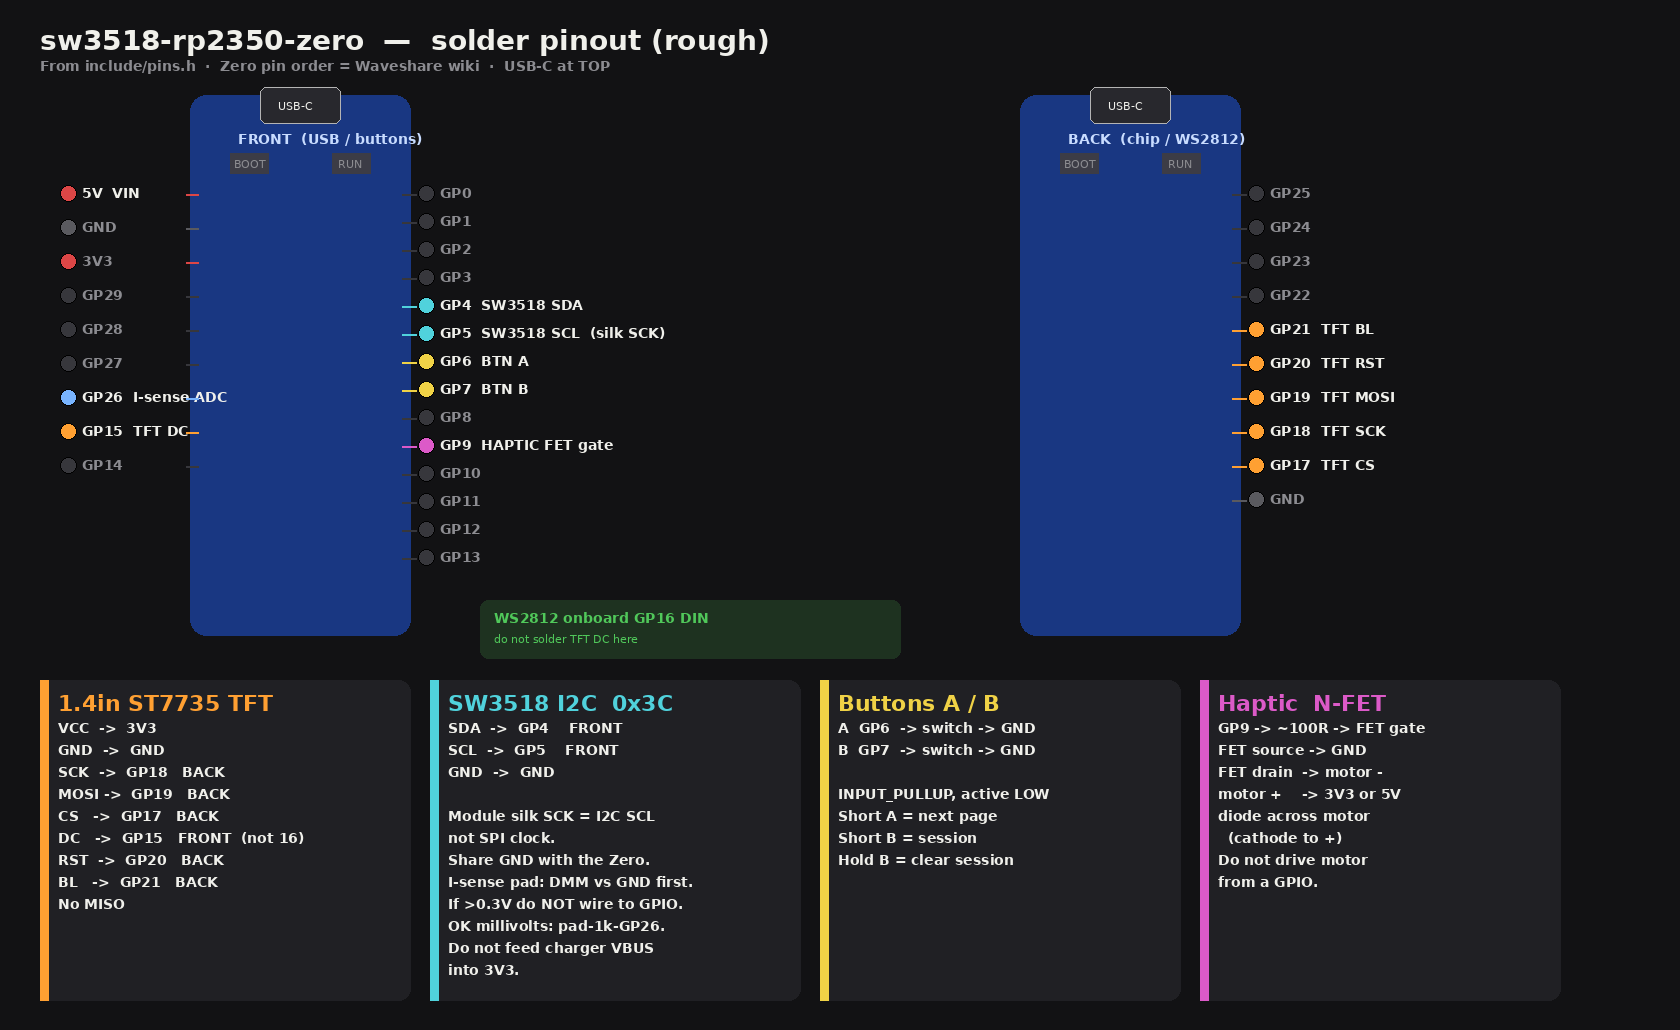
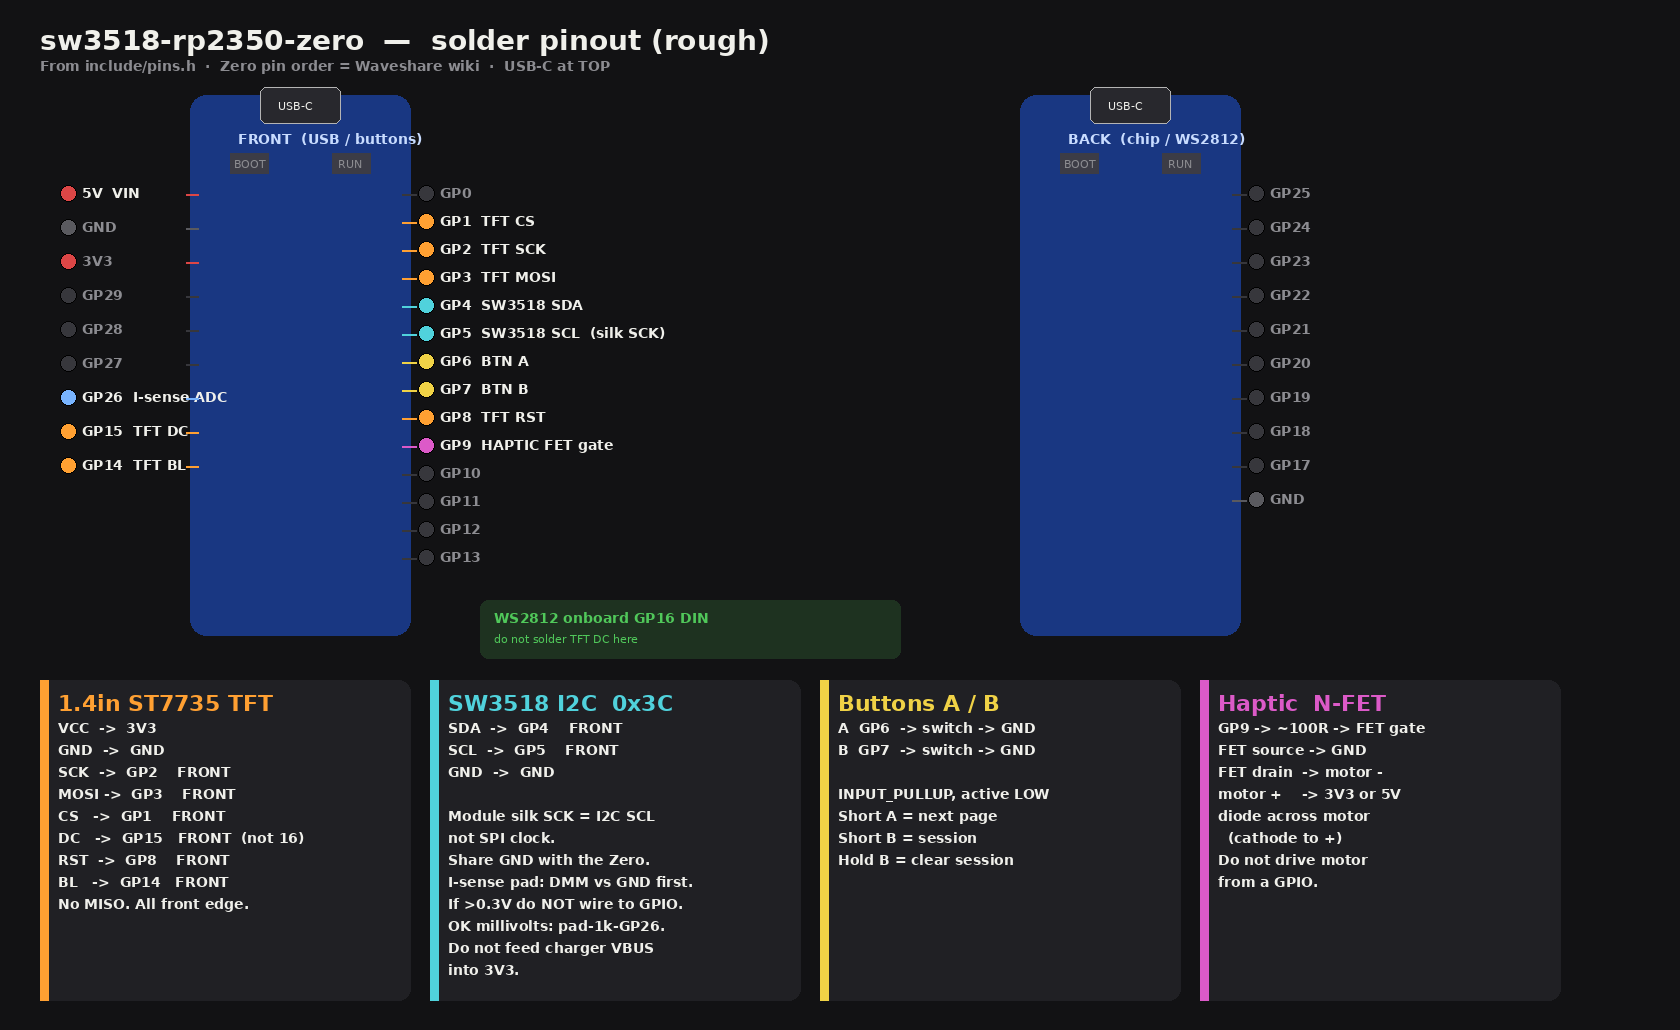
Move TFT SPI onto front-edge GPIOs.
SPI0 SCK/MOSI remap to GP2/GP3; CS/RST/BL on GP1/8/14. Back pads GP17-21 are free.

diff --git a/include/pins.h b/include/pins.h
@@ -3,15 +3,16 @@
 // Default pin map — Waveshare RP2350-Zero + 1.4" 128x128 SPI TFT + SW3518 + buttons + haptic.
 // Change here; rebuild. Documented again in README.
 
-// --- 1.4"/1.44" ST7735S SPI 128x128 (SPI0 defaults on Pico family: SCK=18, MOSI=19) ---
-static const int PIN_TFT_SCK  = 18;
-static const int PIN_TFT_MOSI = 19;
-static const int PIN_TFT_CS   = 17;
-// GP16 is the onboard WS2812 (Waveshare RP2350-Zero schematic DIN, Pico SDK
-// PICO_DEFAULT_WS2812_PIN). TFT DC lives on GP15 so it does not fight the LED.
-static const int PIN_TFT_DC   = 15;
-static const int PIN_TFT_RST  = 20;
-static const int PIN_TFT_BL   = 21;  // backlight; PWM for night dim
+// --- 1.4"/1.44" ST7735S SPI 128x128 ---
+// All TFT GPIOs are on the Zero *front* castellated edge (USB-C at top).
+// SPI0 is remapped off the back-pad defaults (GP18/19) onto GP2/GP3
+// (Waveshare pinout: GP2 = SPI0 SCK, GP3 = SPI0 TX).
+static const int PIN_TFT_SCK  = 2;
+static const int PIN_TFT_MOSI = 3;
+static const int PIN_TFT_CS   = 1;
+static const int PIN_TFT_DC   = 15;  // front left; GP16 is the onboard WS2812
+static const int PIN_TFT_RST  = 8;
+static const int PIN_TFT_BL   = 14;  // PWM night dim
 static const int PIN_WS2812   = 16;  // onboard WS2812B, GRB 800 kHz
 
 // 128x128 panels need the 144 tab (sets 128 height + col/row start).
@@ -30,8 +31,8 @@ static const uint8_t SW3518_I2C_ADDR = 0x3C;
 // --- Momentary buttons on case LID beside screen (active LOW, INPUT_PULLUP) ---
 static const int PIN_BTN_A = 6;  // short = next page; long = haptic test
 static const int PIN_BTN_B = 7;  // short = prev / jump Session; long = clear session
-// Optional 3rd button (Mode) — leave unused or wire to free GPIO:
-// static const int PIN_BTN_MODE = 8;
+// Optional 3rd button (Mode) — GP8 is TFT RST; use GP10+ if needed.
+// static const int PIN_BTN_MODE = 10;
 
 // --- Haptic motor via N-FET gate (active HIGH) ---
 static const int PIN_HAPTIC = 9;

diff --git a/docs/make_solder_pinout.py b/docs/make_solder_pinout.py
@@ -28,18 +28,18 @@ FRONT_L = [
     ("27", "", "free"),
     ("26", "I-sense ADC", "adc"),
     ("15", "TFT DC", "tft"),
-    ("14", "", "free"),
+    ("14", "TFT BL", "tft"),
 ]
 FRONT_R = [
     ("0", "", "free"),
-    ("1", "", "free"),
-    ("2", "", "free"),
-    ("3", "", "free"),
+    ("1", "TFT CS", "tft"),
+    ("2", "TFT SCK", "tft"),
+    ("3", "TFT MOSI", "tft"),
     ("4", "SW3518 SDA", "i2c"),
     ("5", "SW3518 SCL  (silk SCK)", "i2c"),
     ("6", "BTN A", "btn"),
     ("7", "BTN B", "btn"),
-    ("8", "", "free"),
+    ("8", "TFT RST", "tft"),
     ("9", "HAPTIC FET gate", "hap"),
     ("10", "", "free"),
     ("11", "", "free"),
@@ -51,11 +51,11 @@ BACK_R = [
     ("24", "", "free"),
     ("23", "", "free"),
     ("22", "", "free"),
-    ("21", "TFT BL", "tft"),
-    ("20", "TFT RST", "tft"),
-    ("19", "TFT MOSI", "tft"),
-    ("18", "TFT SCK", "tft"),
-    ("17", "TFT CS", "tft"),
+    ("21", "", "free"),
+    ("20", "", "free"),
+    ("19", "", "free"),
+    ("18", "", "free"),
+    ("17", "", "free"),
     ("GND", "", "gnd"),
 ]
 
@@ -142,13 +142,13 @@ def main():
         [
             "VCC  ->  3V3",
             "GND  ->  GND",
-            "SCK  ->  GP18   BACK",
-            "MOSI ->  GP19   BACK",
-            "CS   ->  GP17   BACK",
+            "SCK  ->  GP2    FRONT",
+            "MOSI ->  GP3    FRONT",
+            "CS   ->  GP1    FRONT",
             "DC   ->  GP15   FRONT  (not 16)",
-            "RST  ->  GP20   BACK",
-            "BL   ->  GP21   BACK",
-            "No MISO",
+            "RST  ->  GP8    FRONT",
+            "BL   ->  GP14   FRONT",
+            "No MISO. All front edge.",
         ],
         C["tft"],
         fonts,

diff --git a/src/main.cpp b/src/main.cpp
@@ -466,7 +466,7 @@ static void initDisplay() {
   delay(200);
   tft.fillScreen(COL_BLACK);
 #else
-  // earlephilhower SPI0: default SCK=18 MOSI=19 matches our map
+  // SPI0 remapped to front-edge GP2/GP3 (not the back-pad defaults 18/19)
   SPI.setSCK(PIN_TFT_SCK);
   SPI.setTX(PIN_TFT_MOSI);
   SPI.begin(true);

diff --git a/README.md b/README.md
@@ -39,12 +39,12 @@ Edit `include/pins.h` (also summarized here).
 
 | Function | GPIO | Notes |
 |----------|------|--------|
-| TFT SCK | **18** | SPI0 |
-| TFT MOSI | **19** | SPI0 |
-| TFT CS | **17** | |
-| TFT DC | **15** | Moved off GP16 so the onboard WS2812 can own that pin |
-| TFT RST | **20** | |
-| TFT BL | **21** | PWM night dim |
+| TFT SCK | **2** | SPI0 SCK, **front** edge |
+| TFT MOSI | **3** | SPI0 TX, front edge |
+| TFT CS | **1** | front edge |
+| TFT DC | **15** | front left (GP16 is onboard WS2812) |
+| TFT RST | **8** | front edge |
+| TFT BL | **14** | PWM night dim, front left |
 | WS2812 | **16** | Onboard RGB (Waveshare schematic DIN, `PICO_DEFAULT_WS2812_PIN`) |
 | I2C SDA | **4** | Wire / **I2C0** (RP2350 GP4/5) |
 | I2C SCL | **5** | SW3518 addr **0x3C** |
